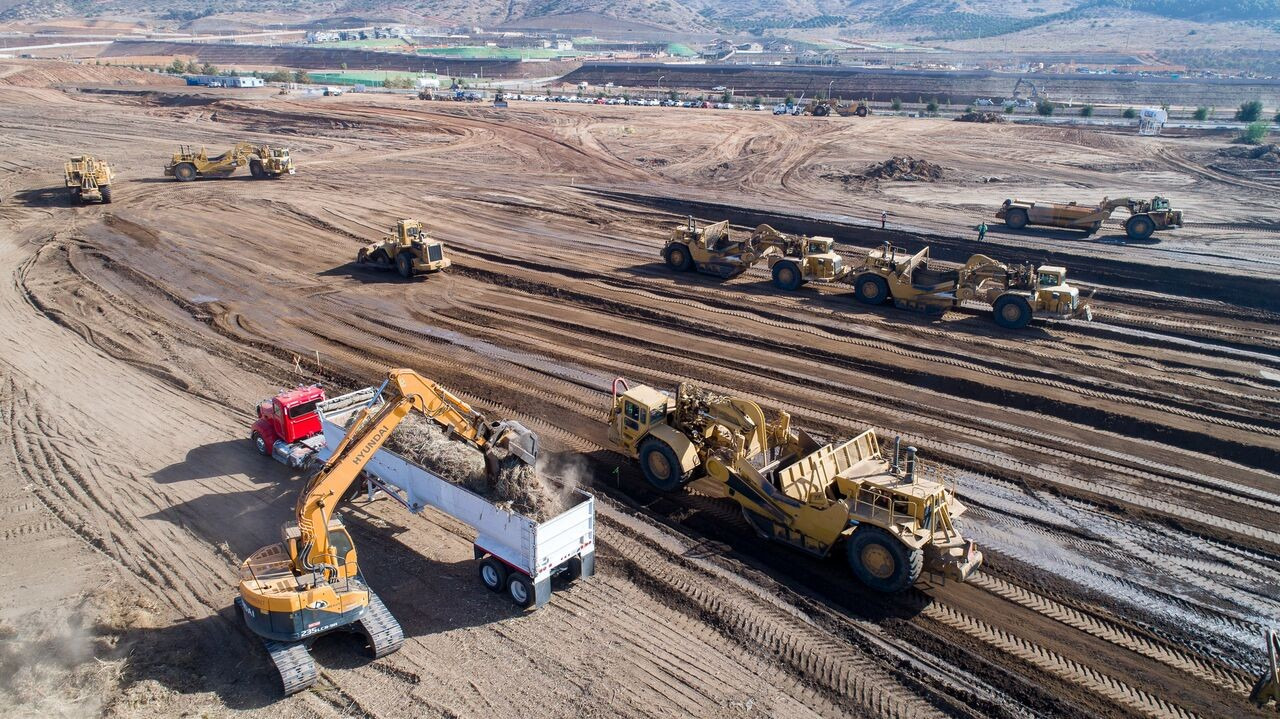
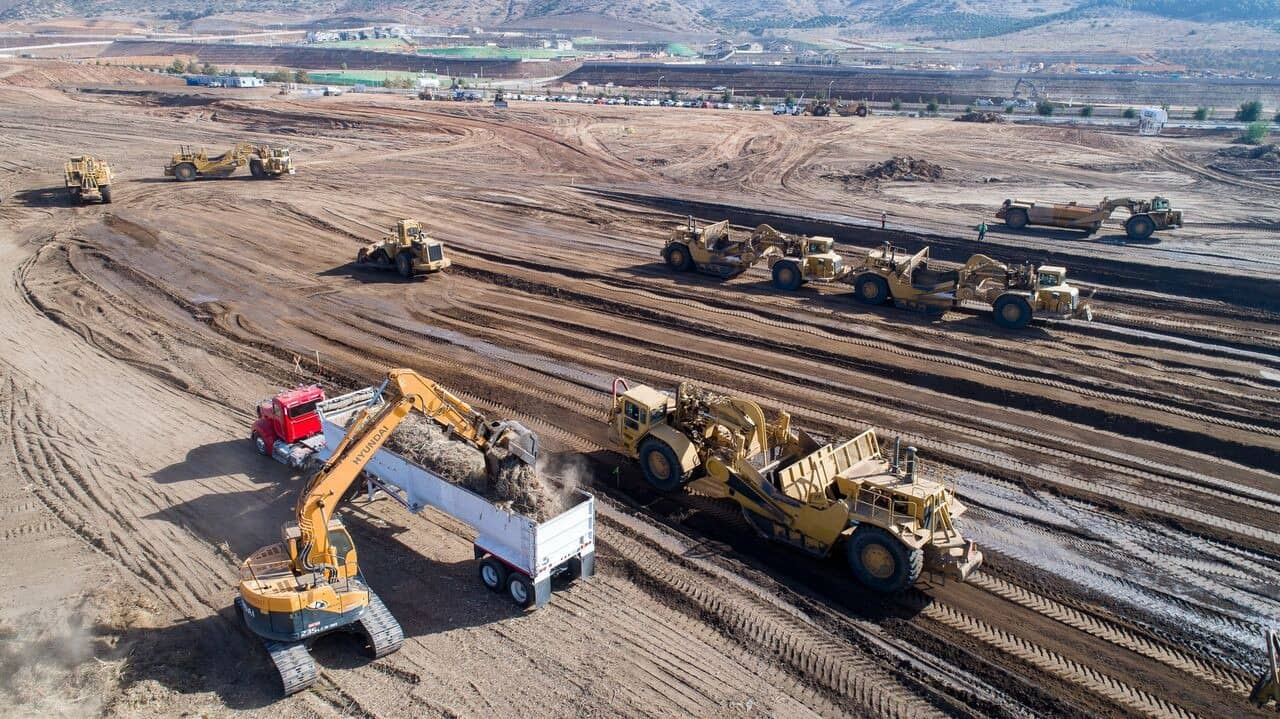
Compressed Uganda pics and compressed index images

diff --git a/src/content/pages/uganda.html b/src/content/pages/uganda.html
@@ -1,7 +1,7 @@
 ---
 title: 'Uganda'
 description: 'Meta description for the page'
-preloadImg: '/assets/images/banner-photo.jpg'
+preloadImg: '/assets/images/banner-photo.webp'
 permalink: 'uganda/'
 pageTitle: Uganda
 ---
@@ -18,6 +18,8 @@ pageTitle: Uganda
 <!-- ============================================ -->
 <!--                 Content Page                 -->
 <!-- ============================================ -->
+
+
 
 <section id="content-page-849">
     <div class="cs-container">
@@ -61,17 +63,17 @@ pageTitle: Uganda
         <div class="cs-image-group">
             <picture class="cs-picture">
                 <!--Mobile Image-->
-                <source media="(max-width: 600px)" src="/assets/images/portfolio/SOS_LOGO_-_2.png">
+                <source media="(max-width: 600px)" src="/assets/images/portfolio/SOS_LOGO_-_2-m.webp">
                 <!--Tablet and above Image-->
-                <source media="(min-width: 601px)" src="/assets/images/portfolio/SOS_LOGO_-_2.png">
-                <img decoding="async" src="/assets/images/portfolio/SOS_LOGO_-_2.png" alt="person" width="542" height="520" aria-hidden="true">
+                <source media="(min-width: 601px)" src="/assets/images/portfolio/SOS_LOGO_-_2.webp">
+                <img decoding="async" src="/assets/images/portfolio/SOS_LOGO_-_2.webp" alt="person" width="542" height="520" aria-hidden="true">
             </picture>
             <picture class="cs-picture">
                 <!--Mobile Image-->
-                <source media="(max-width: 600px)" src="/assets/images/portfolio/SOS_LOGO.jpg">
+                <source media="(max-width: 600px)" src="/assets/images/portfolio/SOS_LOGO-m.webp">
                 <!--Tablet and above Image-->
-                <source media="(min-width: 601px)" src="/assets/images/portfolio/SOS_LOGO.jpg">
-                <img decoding="async" src="/assets/images/portfolio/SOS_LOGO.jpg" alt="person" width="542" height="520" aria-hidden="true">
+                <source media="(min-width: 601px)" src="/assets/images/portfolio/SOS_LOGO.webp">
+                <img decoding="async" src="/assets/images/portfolio/SOS_LOGO.webp" alt="person" width="542" height="520" aria-hidden="true">
             </picture>
 
         </div>
@@ -92,63 +94,63 @@ pageTitle: Uganda
             <div class="cs-flex">
                 <picture class="cs-picture cs-picture1">
                     <!--Mobile Image-->
-                    <source media="(max-width: 600px)" src="/assets/images/portfolio/uganda1.jpg">
+                    <source media="(max-width: 600px)" src="/assets/images/portfolio/uganda1-m.webp">
                     <!--Tablet and above Image-->
-                    <source media="(min-width: 601px)" src="/assets/images/portfolio/uganda1.jpg">
-                    <img loading="lazy" decoding="async" src="/assets/images/portfolio/uganda1.jpg" alt="person" width="360" height="420">
+                    <source media="(min-width: 601px)" src="/assets/images/portfolio/uganda1.webp">
+                    <img loading="lazy" decoding="async" src="/assets/images/portfolio/uganda1.webp" alt="person" width="360" height="420">
                 </picture>
                 <picture class="cs-picture cs-picture2">
                     <!--Mobile Image-->
-                    <source media="(max-width: 600px)" src="/assets/images/portfolio/sos.jpeg">
+                    <source media="(max-width: 600px)" src="/assets/images/portfolio/sos-m.webp">
                     <!--Tablet and above Image-->
-                    <source media="(min-width: 601px)" src="/assets/images/portfolio/sos.jpeg">
-                    <img loading="lazy" decoding="async" src="/assets/images/portfolio/sos.jpeg" alt="person" width="360" height="240">
+                    <source media="(min-width: 601px)" src="/assets/images/portfolio/sos.webp">
+                    <img loading="lazy" decoding="async" src="/assets/images/portfolio/sos.webp" alt="person" width="360" height="240">
                 </picture>
             </div>
             <picture class="cs-picture cs-row">
                 <!--Mobile Image-->
-                <source media="(max-width: 600px)" src="/assets/images/portfolio/excavator.jpg">
+                <source media="(max-width: 600px)" src="/assets/images/portfolio/excavator-m.webp">
                 <!--Tablet and above Image-->
-                <source media="(min-width: 601px)" src="/assets/images/portfolio/excavator.jpg">
-                <img loading="lazy" decoding="async" src="/assets/images/portfolio/excavator.jpg" alt="person" width="360" height="520">
+                <source media="(min-width: 601px)" src="/assets/images/portfolio/excavator.webp">
+                <img loading="lazy" decoding="async" src="/assets/images/portfolio/excavator.webp" alt="person" width="360" height="520">
             </picture>
             <div class="cs-flex">
                 <picture class="cs-picture cs-picture1">
                     <!--Mobile Image-->
-                    <source media="(max-width: 600px)" src="/assets/images/portfolio/group pic.jpg">
+                    <source media="(max-width: 600px)" src="/assets/images/uganda-group-pic-m.webp">
                     <!--Tablet and above Image-->
-                    <source media="(min-width: 601px)" src="/assets/images/portfolio/group pic.jpg">
-                    <img loading="lazy" decoding="async" src="/assets/images/portfolio/group pic.jpg" alt="person" width="360" height="420">
+                    <source media="(min-width: 601px)" src="/assets/images/uganda-group-pic">
+                    <img loading="lazy" decoding="async" src="/assets/images/uganda-group-pic.webp" alt="person" width="360" height="420">
                 </picture>
                 <picture class="cs-picture cs-picture2">
                     <!--Mobile Image-->
-                    <source media="(max-width: 600px)" src="/assets/images/portfolio/uganda_kids.jpeg">
+                    <source media="(max-width: 600px)" src="/assets/images/portfolio/uganda_kids-m.webp">
                     <!--Tablet and above Image-->
-                    <source media="(min-width: 601px)" src="/assets/images/portfolio/uganda_kids.jpeg">
-                    <img loading="lazy" decoding="async" src="/assets/images/portfolio/uganda_kids.jpeg" alt="person" width="360" height="240">
+                    <source media="(min-width: 601px)" src="/assets/images/portfolio/uganda_kids.webp">
+                    <img loading="lazy" decoding="async" src="/assets/images/portfolio/uganda_kids.webp" alt="person" width="360" height="240">
                 </picture>
             </div>
             <picture class="cs-picture cs-row">
                 <!--Mobile Image-->
-                <source media="(max-width: 600px)" src="/assets/images/portfolio/uganda_kids2.jpeg">
+                <source media="(max-width: 600px)" src="/assets/images/portfolio/uganda_kids2-m.webp">
                 <!--Tablet and above Image-->
-                <source media="(min-width: 601px)" src="/assets/images/portfolio/uganda_kids2.jpeg">
-                <img loading="lazy" decoding="async" src="/assets/images/portfolio/uganda_kids2.jpeg" alt="person" width="360" height="520">
+                <source media="(min-width: 601px)" src="/assets/images/portfolio/uganda_kids2.webp">
+                <img loading="lazy" decoding="async" src="/assets/images/portfolio/uganda_kids2.webp" alt="person" width="360" height="520">
             </picture>
             <div class="cs-flex">
                 <picture class="cs-picture cs-picture1">
                     <!--Mobile Image-->
-                    <source media="(max-width: 600px)" src="/assets/images/portfolio/uganda_andrew.jpeg">
+                    <source media="(max-width: 600px)" src="/assets/images/portfolio/uganda_andrew-m.webp">
                     <!--Tablet and above Image-->
-                    <source media="(min-width: 601px)" src="/assets/images/portfolio/uganda_andrew.jpeg">
-                    <img loading="lazy" decoding="async" src="/assets/images/portfolio/uganda_andrew.jpeg" alt="person" width="360" height="420">
+                    <source media="(min-width: 601px)" src="/assets/images/portfolio/uganda_andrew.webp">
+                    <img loading="lazy" decoding="async" src="/assets/images/portfolio/uganda_andrew.webp" alt="person" width="360" height="420">
                 </picture>
                 <picture class="cs-picture cs-picture2">
                     <!--Mobile Image-->
-                    <source media="(max-width: 600px)" src="/assets/images/portfolio/ugandafield.jpeg">
+                    <source media="(max-width: 600px)" src="/assets/images/portfolio/ugandafield-m.webp">
                     <!--Tablet and above Image-->
-                    <source media="(min-width: 601px)" src="/assets/images/portfolio/ugandafield.jpeg">
-                    <img loading="lazy" decoding="async" src="/assets/images/portfolio/ugandafield.jpeg" alt="person" width="360" height="240">
+                    <source media="(min-width: 601px)" src="/assets/images/portfolio/ugandafield.webp">
+                    <img loading="lazy" decoding="async" src="/assets/images/portfolio/ugandafield.webp" alt="person" width="360" height="240">
                 </picture>
             </div>
         </div>

diff --git a/src/_includes/components/footer.html b/src/_includes/components/footer.html
@@ -15,14 +15,17 @@
                 <li class="cs-li">
                     <a href="/about" class="cs-link">About</a>
                 </li>
-                <li class="cs-li">
+<!--                <li class="cs-li">
                     <a href="/projects" class="cs-link">Projects</a>
-                </li>
+                </li>-->
                 <li class="cs-li">
                     <a href="/careers" class="cs-link">Careers</a>
                 </li>
                 <li class="cs-li">
                     <a href="/blog" class="cs-link">Blog</a>
+                </li>
+                <li class="cs-li">
+                    <a href="/blog" class="cs-link">Giving Back</a>
                 </li>
                 <li class="cs-li">
                     <a href="/contact" class="cs-link">Contact</a>
